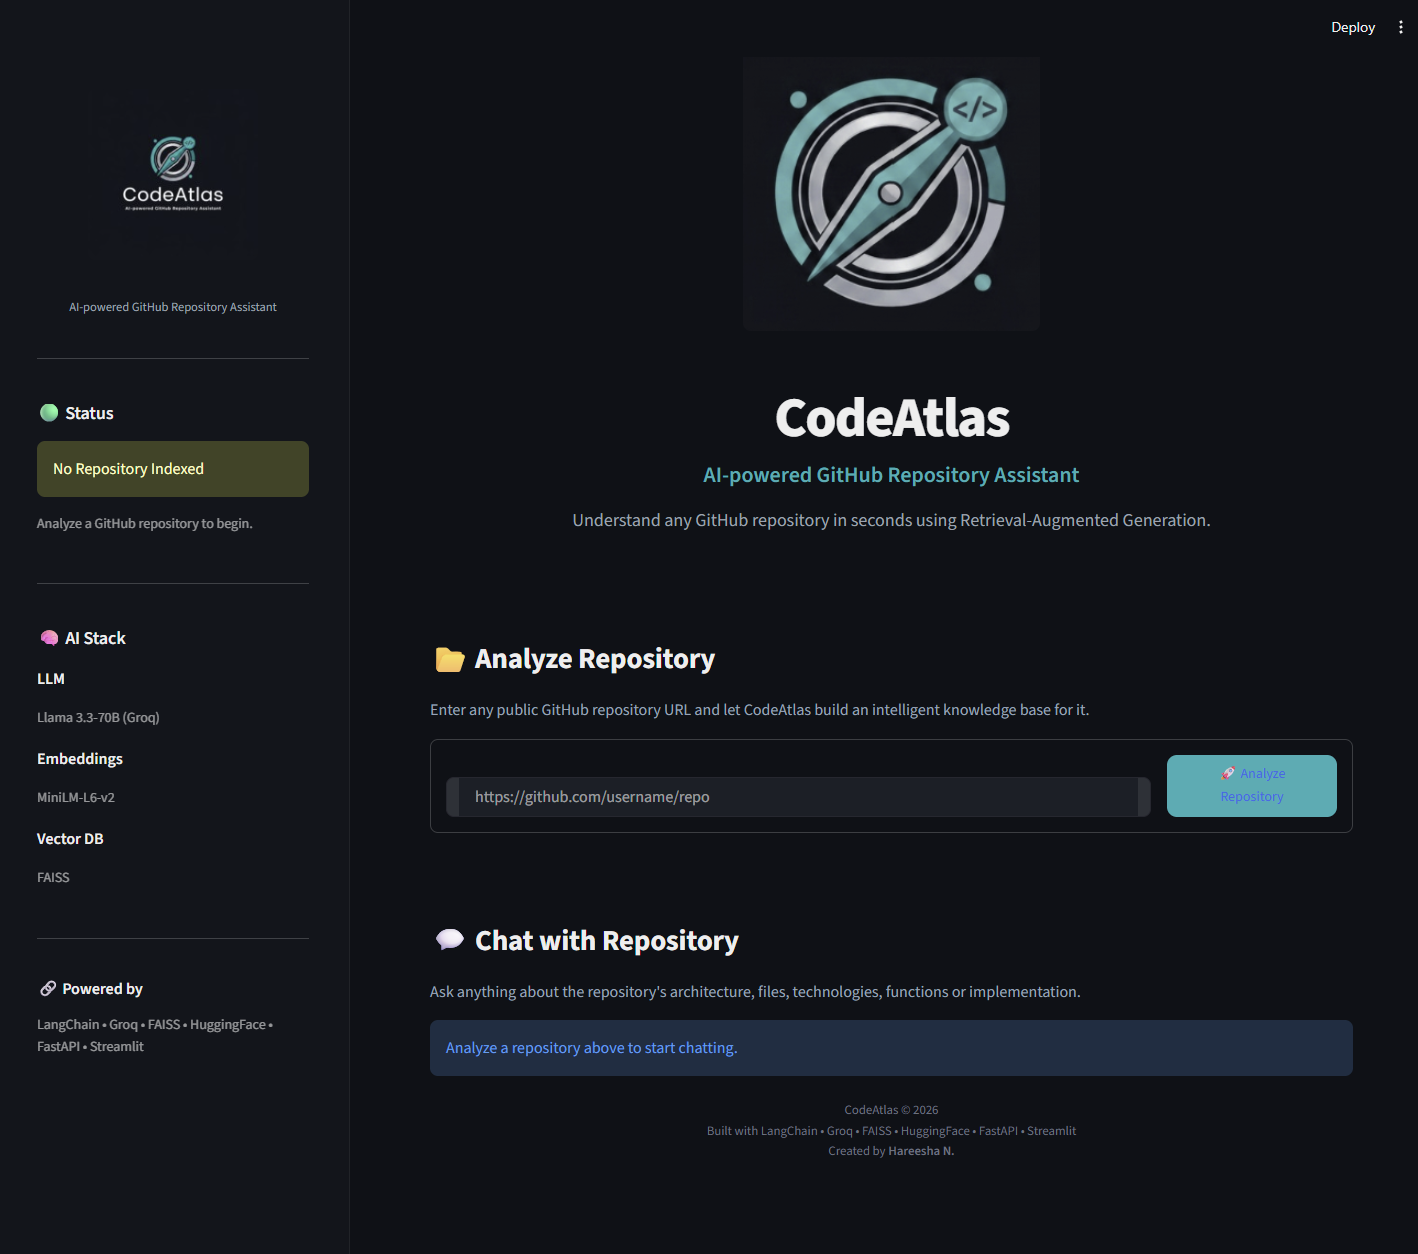
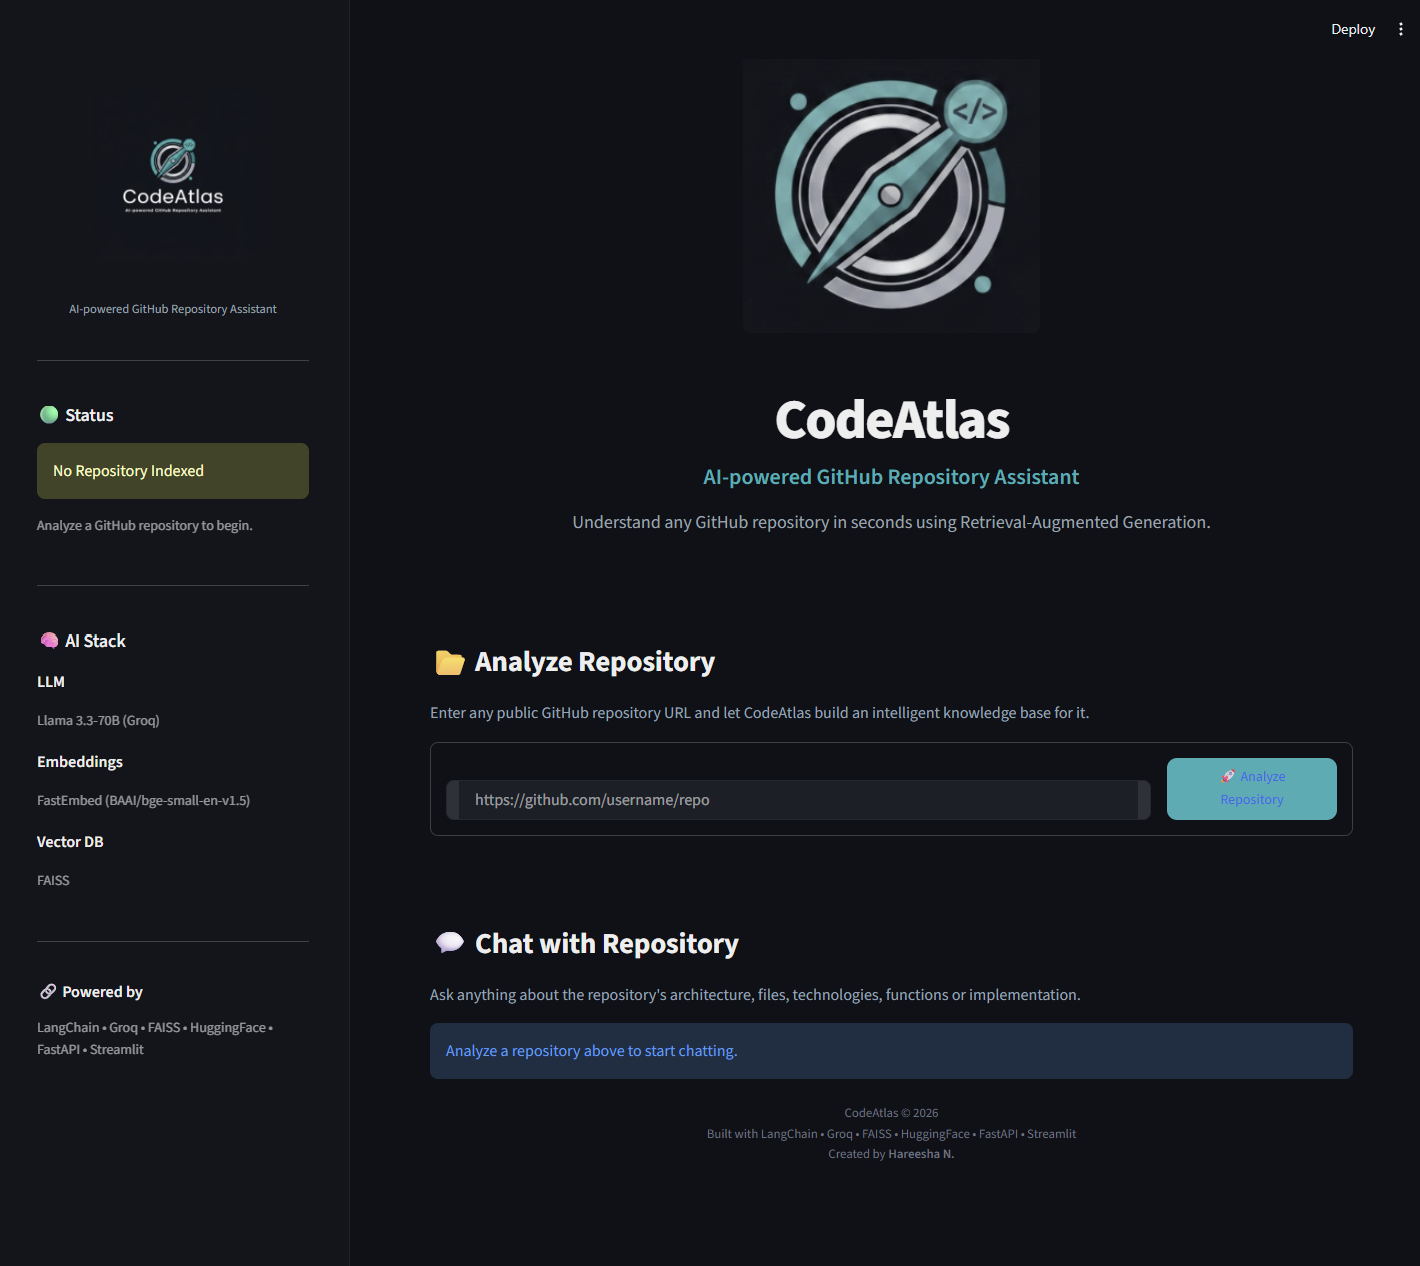
Optimize embeddings with FastEmbed

diff --git a/backend/services/embedding_service.py b/backend/services/embedding_service.py
@@ -1,22 +1,14 @@
-from langchain_huggingface import HuggingFaceEmbeddings
-
-from backend.config import settings
+from langchain_community.embeddings import FastEmbedEmbeddings
 
 
 class EmbeddingService:
-    
 
     def __init__(self):
 
-        self.embeddings = HuggingFaceEmbeddings(
-            model_name=settings.EMBEDDING_MODEL,
-            model_kwargs={
-                "device": "cpu"
-            },
-            encode_kwargs={
-                "normalize_embeddings": True
-            },
+        self.embeddings = FastEmbedEmbeddings(
+            model_name="BAAI/bge-small-en-v1.5"
         )
 
-    def get_embedding_model(self) -> HuggingFaceEmbeddings:
+    def get_embedding_model(self):
+
         return self.embeddings

diff --git a/frontend/config.py b/frontend/config.py
@@ -20,7 +20,7 @@ LOGO_PATH2 = "frontend/assets/logo2.png"
 CSS_PATH = "frontend/styles/style.css"
 
 
-DEFAULT_EMBEDDING_MODEL = "MiniLM-L6-v2"
+DEFAULT_EMBEDDING_MODEL = "FastEmbed (BAAI/bge-small-en-v1.5)"
 DEFAULT_LLM = "Llama 3.3-70B (Groq)"
 DEFAULT_VECTOR_DB = "FAISS"
 

diff --git a/backend/config.py b/backend/config.py
@@ -11,7 +11,7 @@ class Settings:
 
     LLM_MODEL = "llama-3.3-70b-versatile"
 
-    EMBEDDING_MODEL = "sentence-transformers/all-MiniLM-L6-v2"
+    EMBEDDING_MODEL = "BAAI/bge-small-en-v1.5"
 
     REPO_STORAGE_PATH = "data/repos"
 

diff --git a/README.md b/README.md
@@ -1,6 +1,6 @@
 # 🤖 CodeAtlas
 
-> **AI-powered GitHub Repository Assistant built with LangChain, FastAPI, Streamlit, HuggingFace Embeddings, FAISS, and Groq.**
+> **AI-powered GitHub Repository Assistant built with LangChain, FastAPI, Streamlit, FastEmbed Embeddings, FAISS, and Groq.**
 
 ![Python](https://img.shields.io/badge/Python-3.11-blue)
 
@@ -37,7 +37,7 @@ CodeAtlas is an AI-powered GitHub Repository Assistant that helps developers und
 - 🤖 AI-powered GitHub Repository Assistant
 - 🔍 Retrieval-Augmented Generation (RAG)
 - ⚡ FastAPI + Streamlit architecture
-- 🧠 LangChain + Groq + HuggingFace Embeddings + FAISS
+- 🧠 LangChain + Groq + FastEmbed Embeddings + FAISS
 - 🏗 Modular architecture following Separation of Concerns
 - 📚 Automatic repository indexing and semantic code search
 
@@ -73,7 +73,7 @@ CodeAtlas is an AI-powered GitHub Repository Assistant that helps developers und
 * 🔗 Analyze any public GitHub repository
 * 🤖 Ask questions about the codebase in natural language
 * 📚 Retrieval-Augmented Generation (RAG) pipeline
-* 🧠 Semantic code search using HuggingFace embeddings
+* 🧠 Semantic code search using FastEmbed embeddings
 * 🗄 FAISS vector database for efficient retrieval
 * ⚡ Fast inference using Groq Llama 3.3
 * 📄 Displays source files used to generate every answer
@@ -154,7 +154,7 @@ The assistant retrieves the most relevant code snippets before generating an ans
 
           ▼                               ▼
 
- HuggingFace Embeddings      Prompt + Llama 3.3
+ FastEmbed Embeddings      Prompt + Llama 3.3
 
           │                               │
 
@@ -179,7 +179,7 @@ The assistant retrieves the most relevant code snippets before generating an ans
 | Backend              | FastAPI                                |
 | LLM                  | Groq (Llama 3.3-70B Versatile)         |
 | Framework            | LangChain                              |
-| Embeddings           | sentence-transformers/all-MiniLM-L6-v2 |
+| Embeddings           | BAAI/bge-small-en-v1.5 |
 | Vector Database      | FAISS                                  |
 | Repository Access    | GitPython                              |
 | Programming Language | Python                                 |
@@ -270,7 +270,7 @@ Chunking improves retrieval quality by allowing the system to retrieve only the 
 Each chunk is converted into a dense vector representation using:
 
 ```
-sentence-transformers/all-MiniLM-L6-v2
+BAAI/bge-small-en-v1.5
 ```
 
 Embeddings capture semantic meaning rather than exact keyword matches.
